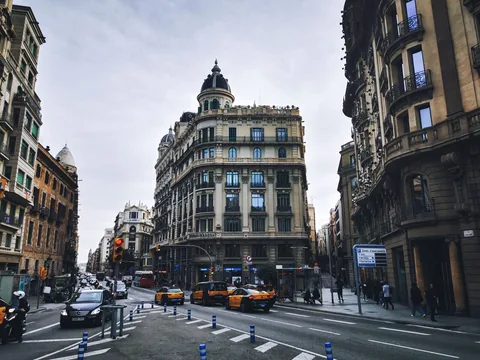
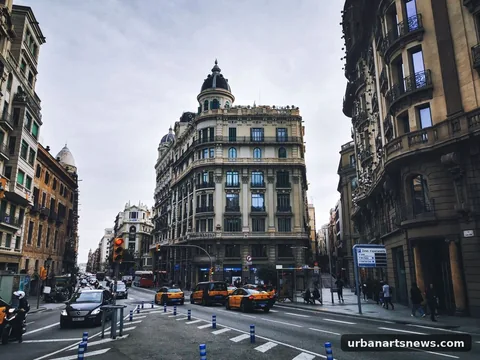
Add Barcelona gallery watermarks and image SEO metadata

Changed region(s): [[0.6875, 0.9167, 1.0, 0.9778]]

diff --git a/generate_barcelona_gallery.py b/generate_barcelona_gallery.py
@@ -2,7 +2,8 @@ from pathlib import Path
 import base64
 import html
 import json
-from PIL import Image
+import unicodedata
+from PIL import Image, ImageDraw, ImageFont
 
 BASE = "https://urbanartsnews.com"
 UPLOAD_DIR = Path("data/image_uploads")
@@ -22,8 +23,55 @@ PHOTOS = [
     {"n": 9, "slug": "historic-central-barcelona-street", "title": "Historic Architecture in Central Barcelona", "description": "A central Barcelona avenue lined with ornate historic buildings and active city traffic.", "alt": "Historic buildings along a central Barcelona city street", "width": 1600, "height": 1200},
 ]
 
+WATERMARK = "urbanartsnews.com"
+FONT_CANDIDATES = (
+    "/usr/share/fonts/truetype/dejavu/DejaVuSans-Bold.ttf",
+    "/usr/share/fonts/truetype/liberation2/LiberationSans-Bold.ttf",
+)
+
 def esc(value):
     return html.escape(str(value), quote=True)
+
+def watermark_image(image):
+    """Return an RGB image with a legible, unobtrusive brand watermark."""
+    image = image.convert("RGBA")
+    overlay = Image.new("RGBA", image.size, (0, 0, 0, 0))
+    draw = ImageDraw.Draw(overlay)
+    font_size = max(18, round(image.width * 0.022))
+    font_path = next((path for path in FONT_CANDIDATES if Path(path).exists()), None)
+    font = ImageFont.truetype(font_path, font_size) if font_path else ImageFont.load_default()
+    bbox = draw.textbbox((0, 0), WATERMARK, font=font)
+    text_width, text_height = bbox[2] - bbox[0], bbox[3] - bbox[1]
+    pad_x, pad_y = round(font_size * 0.62), round(font_size * 0.42)
+    margin = max(14, round(image.width * 0.018))
+    right = image.width - margin
+    bottom = image.height - margin
+    left = right - text_width - 2 * pad_x
+    top = bottom - text_height - 2 * pad_y
+    radius = max(8, round(font_size * 0.38))
+    draw.rounded_rectangle((left, top, right, bottom), radius=radius, fill=(0, 0, 0, 145))
+    draw.text((left + pad_x, top + pad_y - bbox[1]), WATERMARK, font=font, fill=(255, 255, 255, 225))
+    return Image.alpha_composite(image, overlay).convert("RGB")
+
+def seo_exif(photo):
+    """Create embedded JPEG metadata that describes the photograph accurately."""
+    exif = Image.Exif()
+    keywords = "Barcelona; Urban Art; Barcelona Photography; Urban Arts News; Spain"
+    full_description = f"{photo['title']}. {photo['description']}"
+    ascii_description = unicodedata.normalize("NFKD", full_description).encode("ascii", "ignore").decode("ascii")
+    exif[270] = ascii_description
+    exif[315] = "Urban Arts News"
+    exif[33432] = "Copyright Urban Arts News / respective copyright holder"
+    exif[40091] = (photo["title"] + "\0").encode("utf-16le")
+    exif[40092] = (full_description + "\0").encode("utf-16le")
+    exif[40094] = (keywords + "\0").encode("utf-16le")
+    return exif
+
+def prepare_original(source, photo):
+    """Apply watermark and SEO metadata once to a newly imported original."""
+    with Image.open(source) as original:
+        branded = watermark_image(original)
+        branded.save(source, "JPEG", quality=88, optimize=True, progressive=True, exif=seo_exif(photo))
 
 def decode_staged_images():
     ASSET_DIR.mkdir(parents=True, exist_ok=True)
@@ -32,6 +80,7 @@ def decode_staged_images():
         target = ASSET_DIR / f"{photo['slug']}.jpg"
         if staged.exists():
             target.write_bytes(base64.b64decode(staged.read_text(encoding="utf-8")))
+            prepare_original(target, photo)
             staged.unlink()
             print(f"IMPORT Barcelona image: {target}")
 
